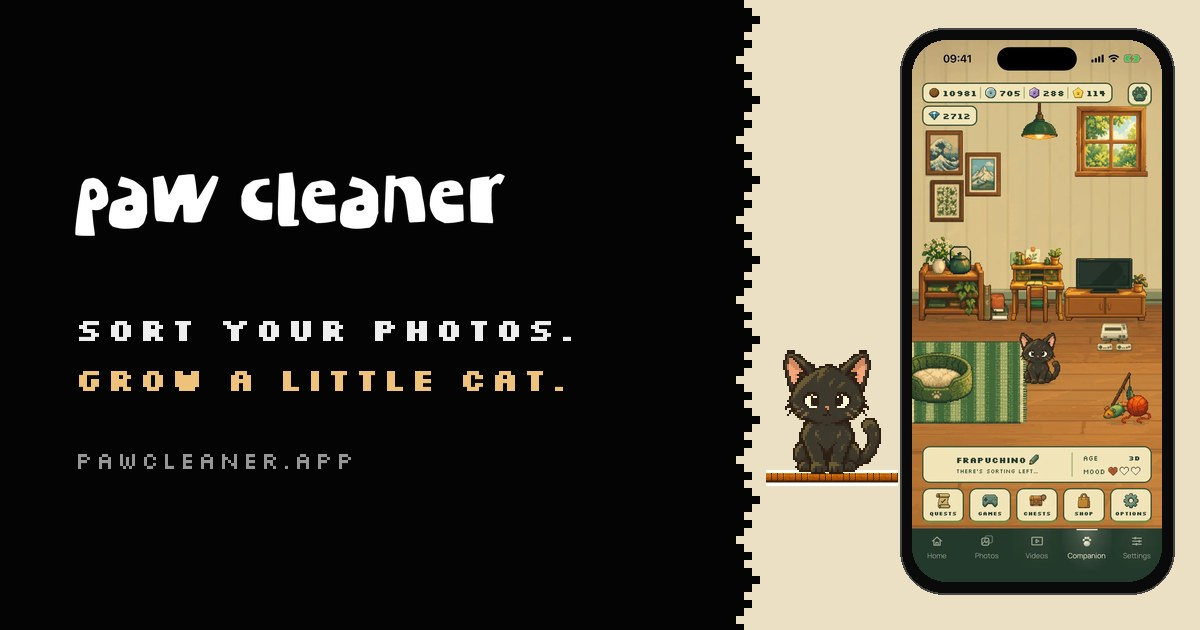
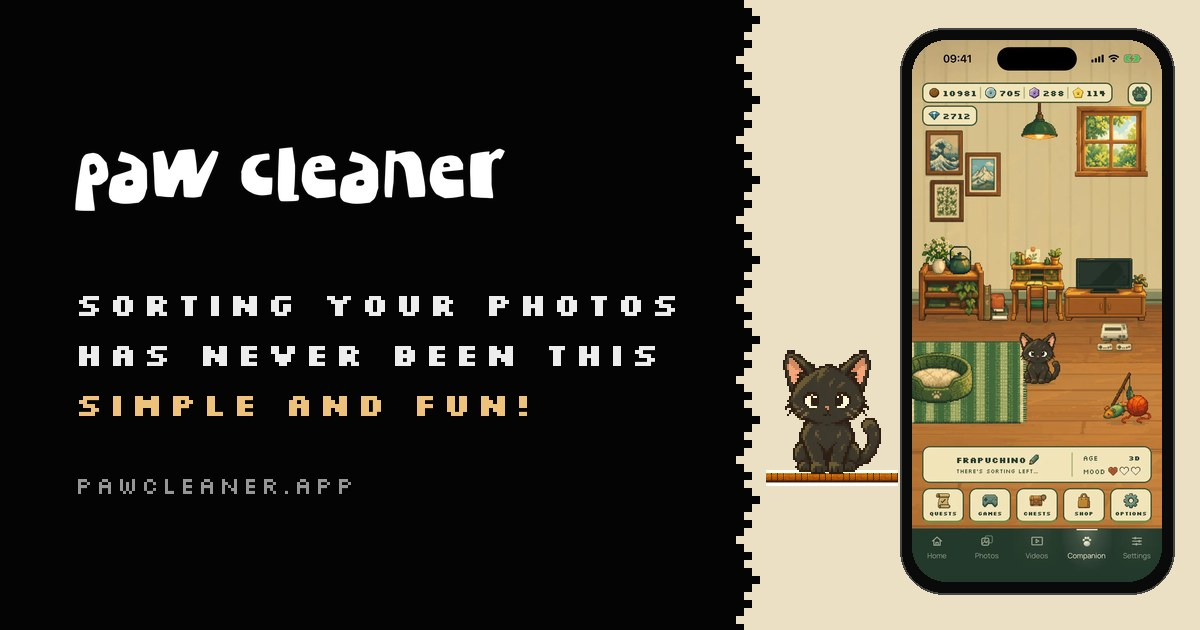
fix(web): aperçu de partage au nouveau titre (og:title, twitter:title et images FR/EN sur trois lignes)
Images régénérées par tools/make-og-images.py ; adresse versionnée (?v=2026-09-21) sur toutes les pages pour que les réseaux rechargent l'image.

Changed region(s): [[0.0617, 0.4524, 0.5858, 0.6635], [0.0617, 0.2413, 0.4317, 0.3921], [0.0617, 0.7238, 0.3083, 0.7841]]

diff --git a/en/index.html b/en/index.html
@@ -12,14 +12,14 @@
 <meta property="og:type" content="website">
 <meta property="og:locale" content="en_US">
 <meta property="og:locale:alternate" content="fr_FR">
-<meta property="og:title" content="Paw Cleaner — Sort your photos, grow a little cat">
+<meta property="og:title" content="Paw Cleaner — Sorting your photos has never been this simple and fun!">
 <meta property="og:description" content="The pixel-art cat that makes you want to sort your camera roll, one day at a time. Everything stays on your iPhone.">
 <meta property="og:url" content="https://pawcleaner.app/en/">
-<meta property="og:image" content="https://pawcleaner.app/assets/img/og-image-en.jpg">
+<meta property="og:image" content="https://pawcleaner.app/assets/img/og-image-en.jpg?v=2026-09-21">
 <meta name="twitter:card" content="summary_large_image">
-<meta name="twitter:title" content="Paw Cleaner — Sort your photos, grow a little cat">
+<meta name="twitter:title" content="Paw Cleaner — Sorting your photos has never been this simple and fun!">
 <meta name="twitter:description" content="The pixel-art cat that makes you want to sort your camera roll, one day at a time.">
-<meta name="twitter:image" content="https://pawcleaner.app/assets/img/og-image-en.jpg">
+<meta name="twitter:image" content="https://pawcleaner.app/assets/img/og-image-en.jpg?v=2026-09-21">
 <meta name="theme-color" content="#000000">
 <link rel="icon" type="image/png" sizes="32x32" href="/assets/img/favicon-32.png">
 <link rel="icon" type="image/png" sizes="16x16" href="/assets/img/favicon-16.png">

diff --git a/index.html b/index.html
@@ -12,14 +12,14 @@
 <meta property="og:type" content="website">
 <meta property="og:locale" content="fr_FR">
 <meta property="og:locale:alternate" content="en_US">
-<meta property="og:title" content="Paw Cleaner — Trie tes photos, fais grandir ton chat">
+<meta property="og:title" content="Paw Cleaner — Trier ses photos n'a jamais été aussi simple et fun !">
 <meta property="og:description" content="Le chat en pixel art qui te donne envie de trier ta galerie, un jour après l'autre. Tout reste sur ton iPhone.">
 <meta property="og:url" content="https://pawcleaner.app/">
-<meta property="og:image" content="https://pawcleaner.app/assets/img/og-image.jpg">
+<meta property="og:image" content="https://pawcleaner.app/assets/img/og-image.jpg?v=2026-09-21">
 <meta name="twitter:card" content="summary_large_image">
-<meta name="twitter:title" content="Paw Cleaner — Trie tes photos, fais grandir ton chat">
+<meta name="twitter:title" content="Paw Cleaner — Trier ses photos n'a jamais été aussi simple et fun !">
 <meta name="twitter:description" content="Le chat en pixel art qui te donne envie de trier ta galerie, un jour après l'autre.">
-<meta name="twitter:image" content="https://pawcleaner.app/assets/img/og-image.jpg">
+<meta name="twitter:image" content="https://pawcleaner.app/assets/img/og-image.jpg?v=2026-09-21">
 <meta name="theme-color" content="#000000">
 <link rel="icon" type="image/png" sizes="32x32" href="/assets/img/favicon-32.png">
 <link rel="icon" type="image/png" sizes="16x16" href="/assets/img/favicon-16.png">

diff --git a/confidentialite/index.html b/confidentialite/index.html
@@ -14,7 +14,7 @@
 <meta property="og:title" content="Politique de confidentialité — Paw Cleaner">
 <meta property="og:description" content="Paw Cleaner fonctionne entièrement sur ton appareil. Aucune photo, aucune vidéo et aucune donnée personnelle n'est envoyée à un serveur.">
 <meta property="og:url" content="https://pawcleaner.app/confidentialite/">
-<meta property="og:image" content="https://pawcleaner.app/assets/img/og-image.jpg">
+<meta property="og:image" content="https://pawcleaner.app/assets/img/og-image.jpg?v=2026-09-21">
 <meta name="twitter:card" content="summary_large_image">
 <meta name="theme-color" content="#000000">
 <link rel="icon" type="image/png" sizes="32x32" href="/assets/img/favicon-32.png">

diff --git a/mentions-legales/index.html b/mentions-legales/index.html
@@ -14,7 +14,7 @@
 <meta property="og:title" content="Mentions légales — Paw Cleaner">
 <meta property="og:description" content="Les informations légales de Paw Cleaner : éditeur, hébergement, propriété intellectuelle et conditions d'utilisation.">
 <meta property="og:url" content="https://pawcleaner.app/mentions-legales/">
-<meta property="og:image" content="https://pawcleaner.app/assets/img/og-image.jpg">
+<meta property="og:image" content="https://pawcleaner.app/assets/img/og-image.jpg?v=2026-09-21">
 <meta name="twitter:card" content="summary_large_image">
 <meta name="theme-color" content="#000000">
 <link rel="icon" type="image/png" sizes="32x32" href="/assets/img/favicon-32.png">

diff --git a/privacy/index.html b/privacy/index.html
@@ -14,7 +14,7 @@
 <meta property="og:title" content="Privacy Policy — Paw Cleaner">
 <meta property="og:description" content="Paw Cleaner runs entirely on your device. No photo, video, or personal data is ever sent to a server.">
 <meta property="og:url" content="https://pawcleaner.app/privacy/">
-<meta property="og:image" content="https://pawcleaner.app/assets/img/og-image-en.jpg">
+<meta property="og:image" content="https://pawcleaner.app/assets/img/og-image-en.jpg?v=2026-09-21">
 <meta name="twitter:card" content="summary_large_image">
 <meta name="theme-color" content="#000000">
 <link rel="icon" type="image/png" sizes="32x32" href="/assets/img/favicon-32.png">

diff --git a/support/index.html b/support/index.html
@@ -14,7 +14,7 @@
 <meta property="og:title" content="Support — Paw Cleaner">
 <meta property="og:description" content="Need help with Paw Cleaner? Contact support at support@pawcleaner.app.">
 <meta property="og:url" content="https://pawcleaner.app/support/">
-<meta property="og:image" content="https://pawcleaner.app/assets/img/og-image-en.jpg">
+<meta property="og:image" content="https://pawcleaner.app/assets/img/og-image-en.jpg?v=2026-09-21">
 <meta name="twitter:card" content="summary_large_image">
 <meta name="theme-color" content="#000000">
 <link rel="icon" type="image/png" sizes="32x32" href="/assets/img/favicon-32.png">

diff --git a/aide/index.html b/aide/index.html
@@ -14,7 +14,7 @@
 <meta property="og:title" content="Aide — Paw Cleaner">
 <meta property="og:description" content="Besoin d'aide avec Paw Cleaner ? Écris-nous à support@pawcleaner.app.">
 <meta property="og:url" content="https://pawcleaner.app/aide/">
-<meta property="og:image" content="https://pawcleaner.app/assets/img/og-image.jpg">
+<meta property="og:image" content="https://pawcleaner.app/assets/img/og-image.jpg?v=2026-09-21">
 <meta name="twitter:card" content="summary_large_image">
 <meta name="theme-color" content="#000000">
 <link rel="icon" type="image/png" sizes="32x32" href="/assets/img/favicon-32.png">

diff --git a/legal/index.html b/legal/index.html
@@ -14,7 +14,7 @@
 <meta property="og:title" content="Legal Notice — Paw Cleaner">
 <meta property="og:description" content="Legal information about Paw Cleaner.">
 <meta property="og:url" content="https://pawcleaner.app/legal/">
-<meta property="og:image" content="https://pawcleaner.app/assets/img/og-image-en.jpg">
+<meta property="og:image" content="https://pawcleaner.app/assets/img/og-image-en.jpg?v=2026-09-21">
 <meta name="twitter:card" content="summary_large_image">
 <meta name="theme-color" content="#000000">
 <link rel="icon" type="image/png" sizes="32x32" href="/assets/img/favicon-32.png">

diff --git a/tools/make-og-images.py b/tools/make-og-images.py
@@ -4,7 +4,7 @@
   python3 tools/make-og-images.py
 
 Run after tools/sync-app-assets.py: everything comes from the site's own assets.
-Left, the sorting world (black, the wordmark, two lines in the app's pixel typeface);
+Left, the sorting world (black, the wordmark, the headline on three lines in the app's pixel typeface);
 right, the companion's world (parchment behind a stepped pixel edge, the kitten on the
 Kibble platform, the room screenshot in a phone). Only the kitten is ever shown: the
 later looks stay a surprise (founder, 2026-09-17).
@@ -30,10 +30,12 @@ GREY = (150, 150, 150)
 TEXT_LEFT = 75
 TEXT_RIGHT = EDGE_X - 40
 
+# The site's headline (founder, 2026-09-21), on three lines; the last one in honey.
 LINES = {
-    'fr': ('TRIE TES PHOTOS.', 'FAIS GRANDIR TON CHAT.', 'og-image.jpg', 'fr'),
-    'en': ('SORT YOUR PHOTOS.', 'GROW A LITTLE CAT.', 'og-image-en.jpg', 'en'),
+    'fr': (("TRIER SES PHOTOS", "N'A JAMAIS ÉTÉ AUSSI", 'SIMPLE ET FUN !'), 'og-image.jpg', 'fr'),
+    'en': (('SORTING YOUR PHOTOS', 'HAS NEVER BEEN THIS', 'SIMPLE AND FUN!'), 'og-image-en.jpg', 'en'),
 }
+LINE_STEP = 50          # 32 px type, 1.55 line height
 
 
 def spaced_width(draw: ImageDraw.ImageDraw, text: str, font: ImageFont.FreeTypeFont, tracking: int) -> int:
@@ -57,7 +59,7 @@ def fitted_tracking(draw: ImageDraw.ImageDraw, lines: tuple[str, ...], font: Ima
 
 
 def make(lang: str) -> None:
-    line1, line2, out_name, shot_lang = LINES[lang]
+    lines, out_name, shot_lang = LINES[lang]
     im = Image.new('RGB', (W, H), INK)
     draw = ImageDraw.Draw(im)
 
@@ -71,17 +73,17 @@ def make(lang: str) -> None:
     logo = Image.open(IMG / 'logo.png').convert('RGBA')
     logo_w = 430
     logo = logo.resize((logo_w, round(logo.height * logo_w / logo.width)), Image.LANCZOS)
-    im.paste(logo, (TEXT_LEFT, 172), logo)
+    im.paste(logo, (TEXT_LEFT, 147), logo)
 
-    # Two lines in Silkscreen, the second in honey, and the address.
+    # Three lines in Silkscreen, the last in honey, and the address.
     bold = SITE / 'assets/fonts/silkscreen-700.ttf'
     regular = SITE / 'assets/fonts/silkscreen-400.ttf'
     font = ImageFont.truetype(str(bold), 32)
-    tracking = fitted_tracking(draw, tuple(line for pair in LINES.values() for line in pair[:2]), font)
-    draw_spaced(draw, (TEXT_LEFT, 308), line1, font, WHITE, tracking)
-    draw_spaced(draw, (TEXT_LEFT, 308 + round(font.size * 1.55)), line2, font, HONEY, tracking)
+    tracking = fitted_tracking(draw, tuple(line for entry in LINES.values() for line in entry[0]), font)
+    for i, line in enumerate(lines):
+        draw_spaced(draw, (TEXT_LEFT, 283 + i * LINE_STEP), line, font, HONEY if i == len(lines) - 1 else WHITE, tracking)
     small = ImageFont.truetype(str(regular), 24)
-    draw_spaced(draw, (TEXT_LEFT, 444), 'PAWCLEANER.APP', small, GREY, 3)
+    draw_spaced(draw, (TEXT_LEFT, 469), 'PAWCLEANER.APP', small, GREY, 3)
 
     # The phone with the room screenshot (the kitten).
     shot = Image.open(IMG / 'app' / shot_lang / 'shot-companion-room.webp').convert('RGB')
